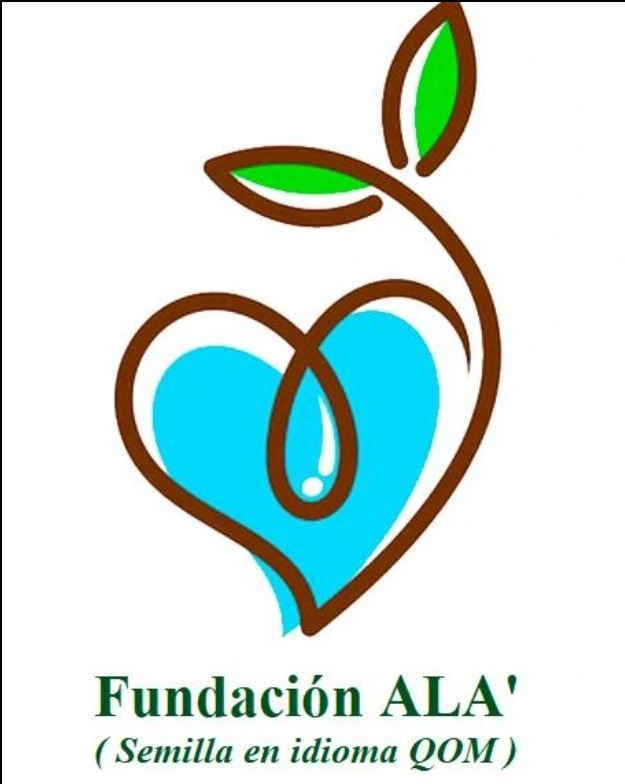
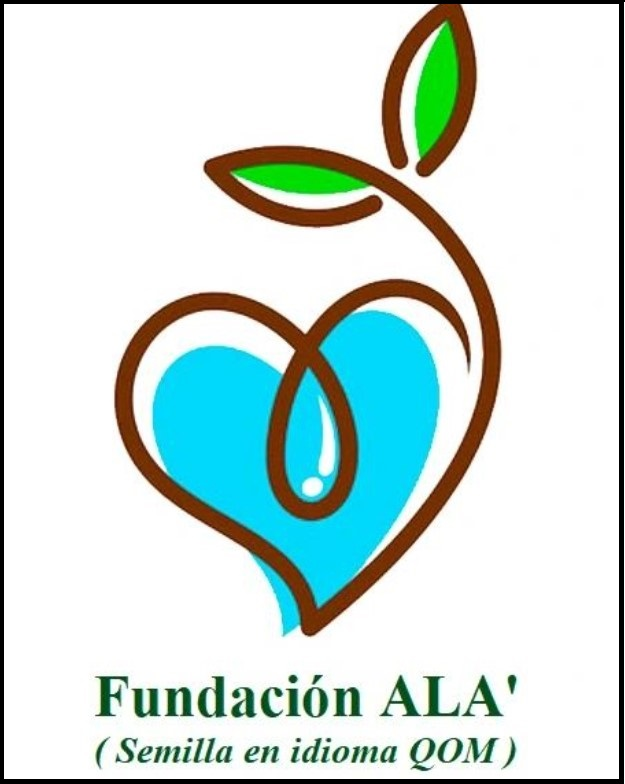
cambios admin

Changed region(s): [[0.0, 0.0, 1.0, 1.0]]

diff --git a/templates/t_home.html b/templates/t_home.html
@@ -5,9 +5,10 @@
 
 
 {% block contenido %}
-	<img src="{% static './img/fundacion-significado.jpg' %}"
-	width="500" height="500"
-	alt="texto alternativo de la imagen" />
+	<center><img src="{% static './img/fundacion-significado.jpg' %}"
+		width="500" height="500"
+		alt="texto alternativo de la imagen" />
+	</center>
 	
 
 	

diff --git a/templates/base.html b/templates/base.html
@@ -35,6 +35,9 @@
 			  <li class="nav-item">
 				<a class="nav-link " href="{% url 'noticias:listar' %}" tabindex="-1" aria-disabled="true">Noticias</a>
 			  </li>
+			  <li class="nav-item">
+				<a class="nav-link" href="admin/login">Administrar</a>
+			  </li>
 			  
 			</ul>			
 		  </div>

diff --git a/blog/urls.py b/blog/urls.py
@@ -31,6 +31,7 @@ urlpatterns = [
     path('', views.Home, name = 'home'),
     #No necesariamente estos 3 valores (parametors) se deben llamar igual
     path('Nosotros/', views.Nosotros, name = 'nosotros'),
+   
 
     #LOGIN
     path('login/',auth.LoginView.as_view(template_name='usuarios/login.html'),name='login'),
